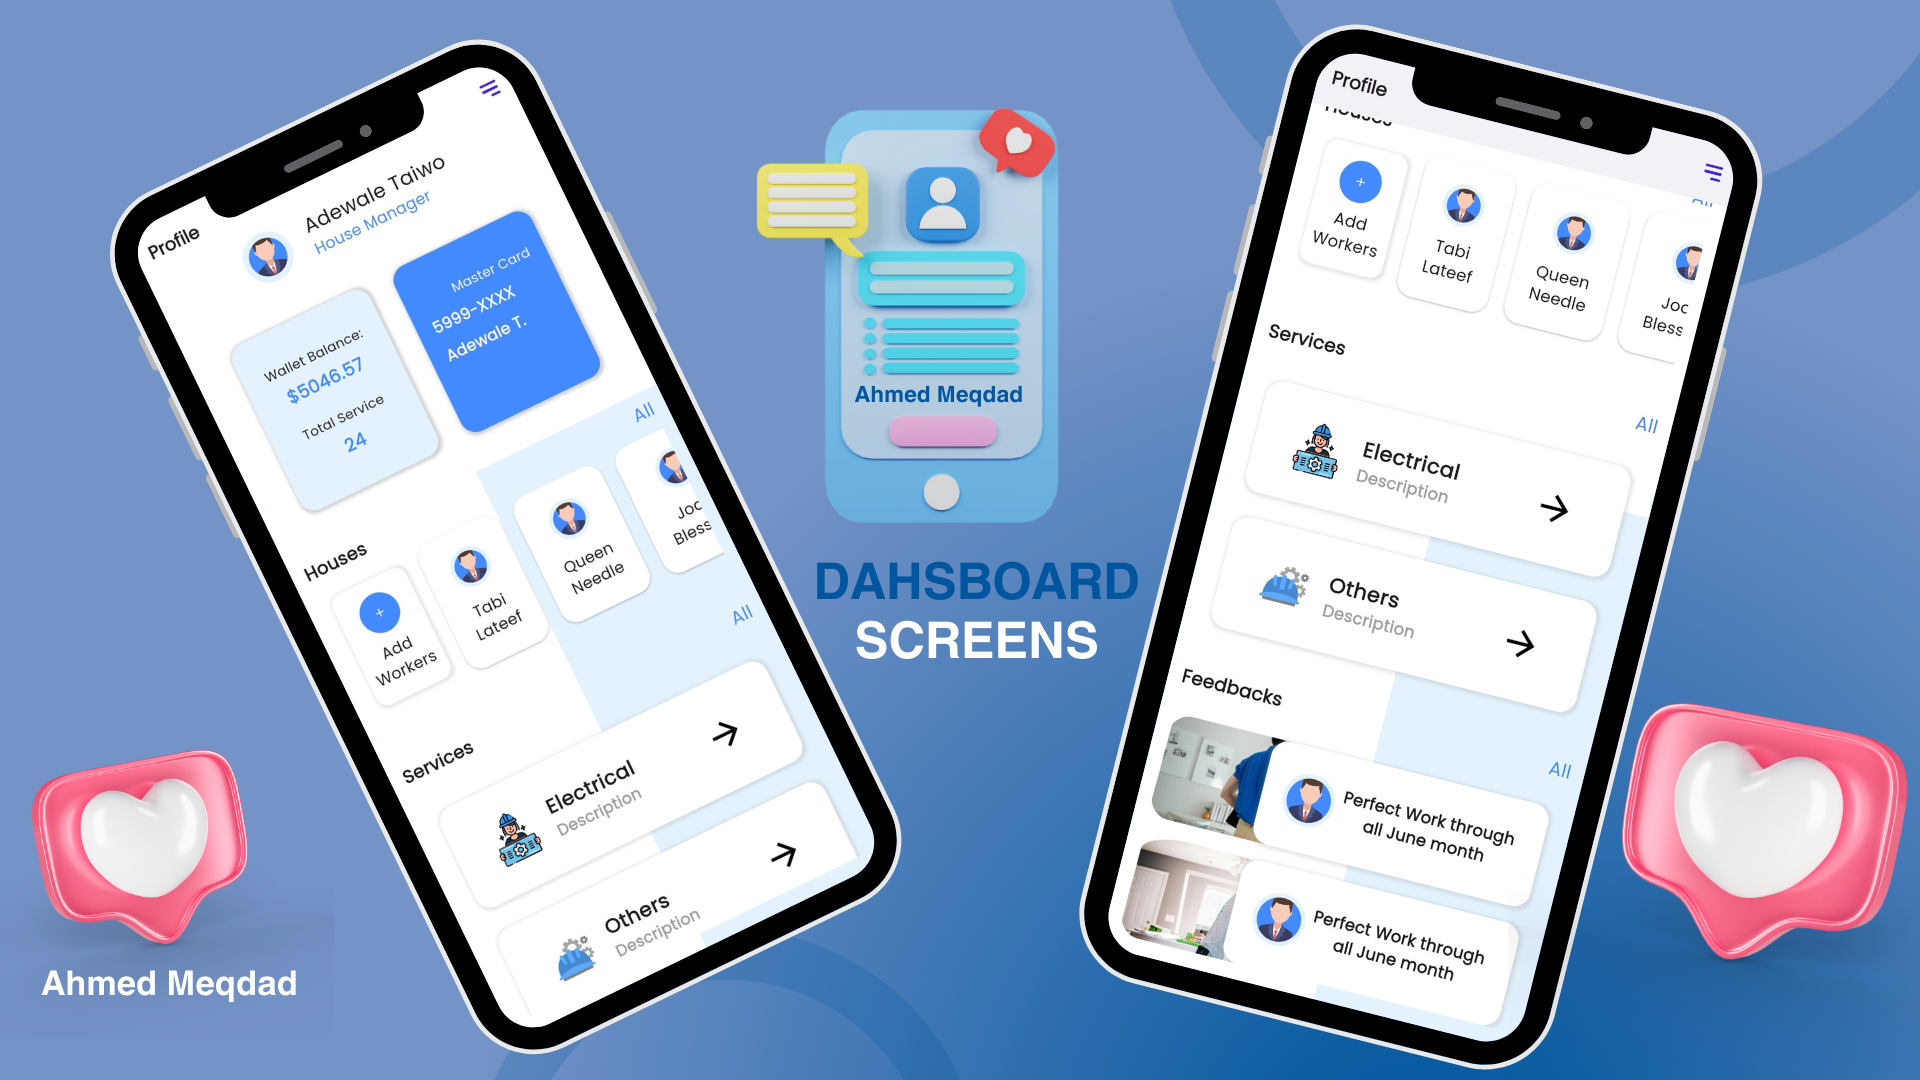
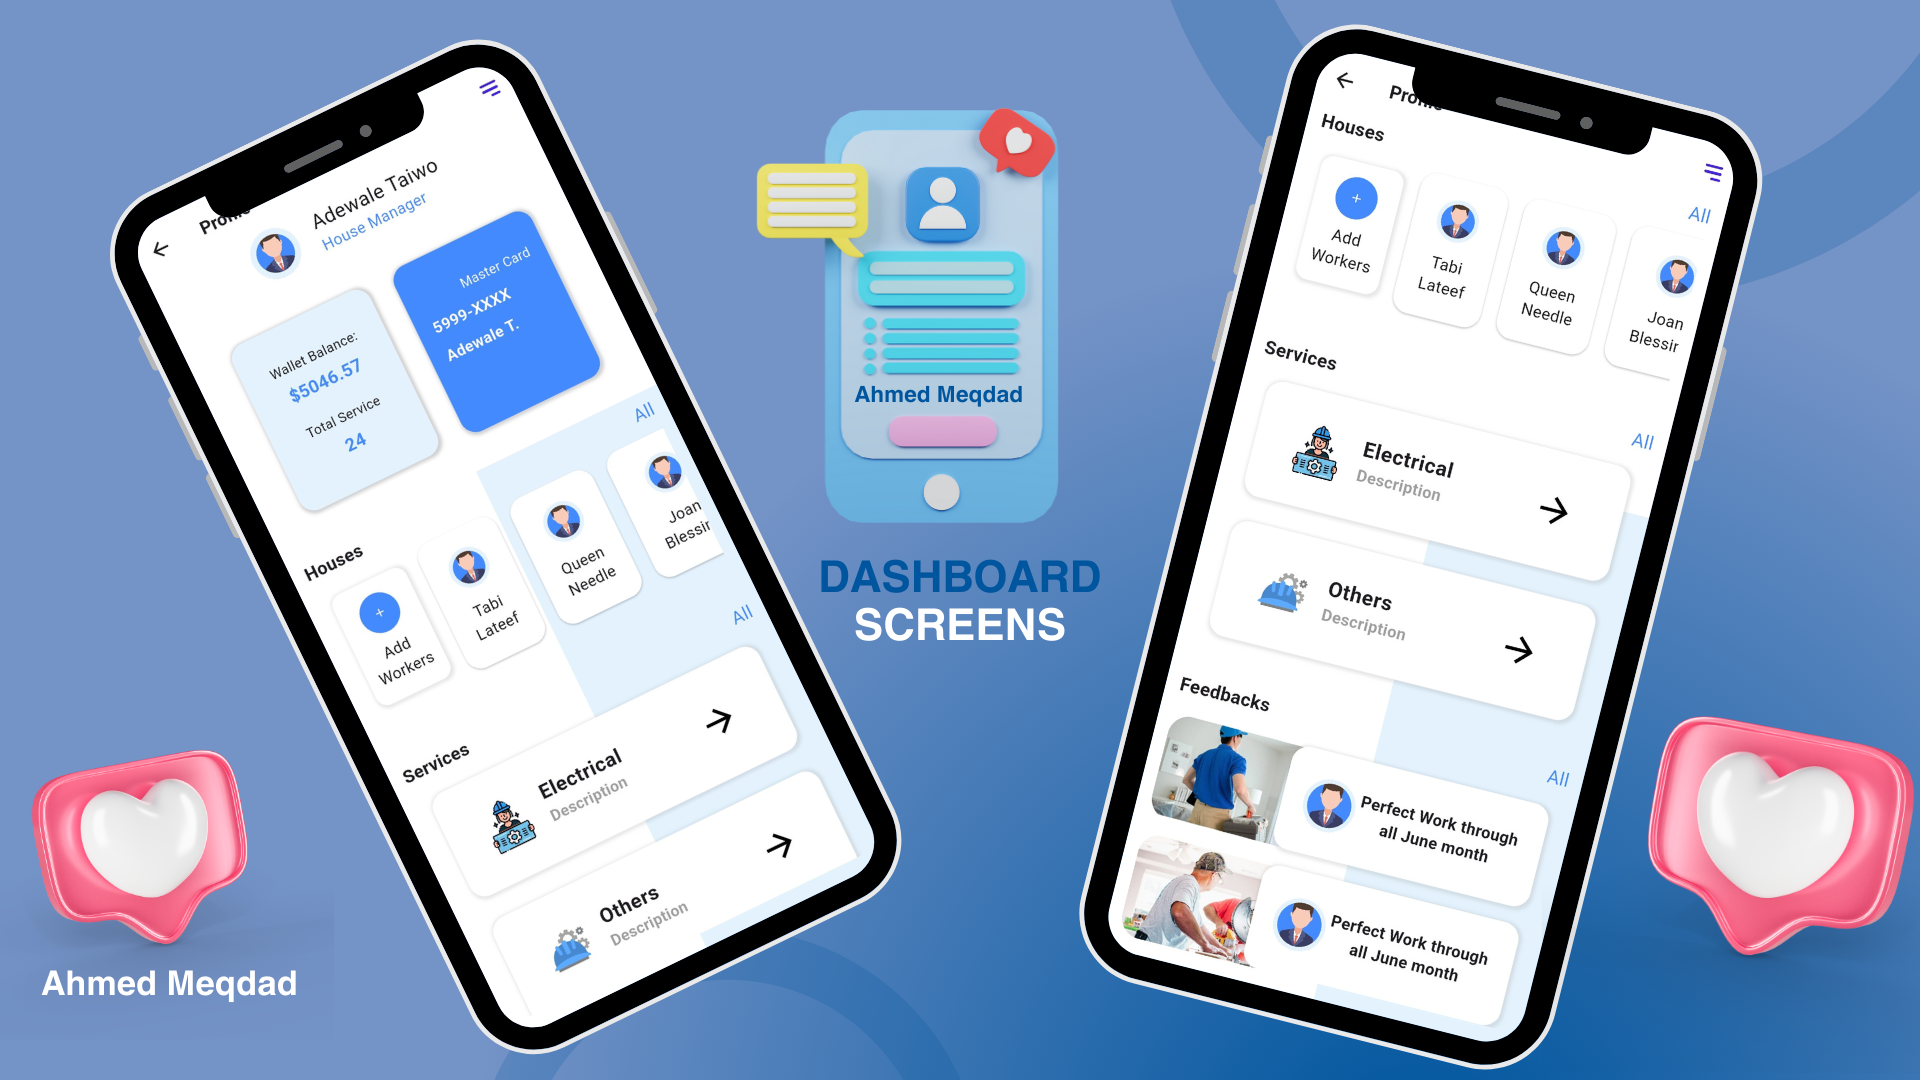
update feedback widget

diff --git a/lib/screens/dashboard.dart b/lib/screens/dashboard.dart
@@ -58,7 +58,10 @@ class Dashboard extends StatelessWidget {
                         decoration: BoxDecoration(
                           color: AppConstants.primaryColor,
                           shape: BoxShape.circle,
-                          border: Border.all(width: 6, color: AppConstants.lightPrimaryColor),
+                          border: Border.all(
+                            width: 6,
+                            color: AppConstants.lightPrimaryColor,
+                          ),
                           image: DecorationImage(
                             image: AssetImage("images/man.png"),
                           ),
@@ -269,7 +272,7 @@ class Dashboard extends StatelessWidget {
 
                   // Services Section
                   Column(
-                    spacing: 32,
+                    spacing: AppConstants.space,
                     children: [
                       // Services Head
                       SectionHead(title: "Services"),
@@ -296,7 +299,7 @@ class Dashboard extends StatelessWidget {
                   // Feedback Section
                   Column(
                     crossAxisAlignment: CrossAxisAlignment.start,
-                    spacing: 24,
+                    spacing: AppConstants.space,
                     children: [
                       // Feedbacks Head
                       SectionHead(title: "Feedbacks"),

diff --git a/lib/helpers/constants.dart b/lib/helpers/constants.dart
@@ -9,16 +9,23 @@ class AppConstants {
     color: primaryColor,
   );
 
+  static const double space = 16;
+
   // static const Image menuIcon = Image(
   //   image: AssetImage("images/menu.png"),
   //   width: 24,
   //   height: 24,
   // );
-
-  static const Icon addIcon = Icon(Icons.add, color: Colors.white, size: 14);
+  static const String defaultImage = "images/man.png";
   
+  static const Icon addIcon = Icon(Icons.add, color: Colors.white, size: 14);
 }
 
 void showMessage(String title, BuildContext context) {
-  ScaffoldMessenger.of(context).showSnackBar(SnackBar(content: Text(title)));
+  ScaffoldMessenger.of(context).showSnackBar(
+    SnackBar(
+      content: Text(title, style: TextStyle(color: Colors.white)),
+      backgroundColor: AppConstants.primaryColor,
+    ),
+  );
 }

diff --git a/lib/widgets/house_card.dart b/lib/widgets/house_card.dart
@@ -3,11 +3,11 @@ import 'package:flutter_ui_task_3/helpers/constants.dart';
 
 class HouseCard extends StatelessWidget {
   final String house_name;
-  final String imgae_path;
+  final String? imgae_path;
   const HouseCard({
     super.key,
     required this.house_name,
-    required this.imgae_path,
+    this.imgae_path = AppConstants.defaultImage,
   });
 
   @override
@@ -34,7 +34,7 @@ class HouseCard extends StatelessWidget {
                   width: 4,
                   color: AppConstants.lightPrimaryColor,
                 ),
-                image: DecorationImage(image: AssetImage(imgae_path)),
+                image: DecorationImage(image: AssetImage(imgae_path!)),
               ),
             ),
             Text(

diff --git a/lib/widgets/feedback_stack.dart b/lib/widgets/feedback_stack.dart
@@ -18,7 +18,7 @@ class FeedbackStack extends StatelessWidget {
       clipBehavior: Clip.none,
       children: [
         Container(
-          width: 300,
+          width: 180,
           height: 100,
           decoration: BoxDecoration(
             borderRadius: BorderRadius.circular(20),
@@ -29,9 +29,9 @@ class FeedbackStack extends StatelessWidget {
           ),
         ),
         Positioned(
-          left: 100,
+          left: 120,
           child: Container(
-            width: 270,
+            width: 250,
             height: 100,
             padding: EdgeInsets.symmetric(vertical: 20, horizontal: 20),
             decoration: BoxDecoration(
